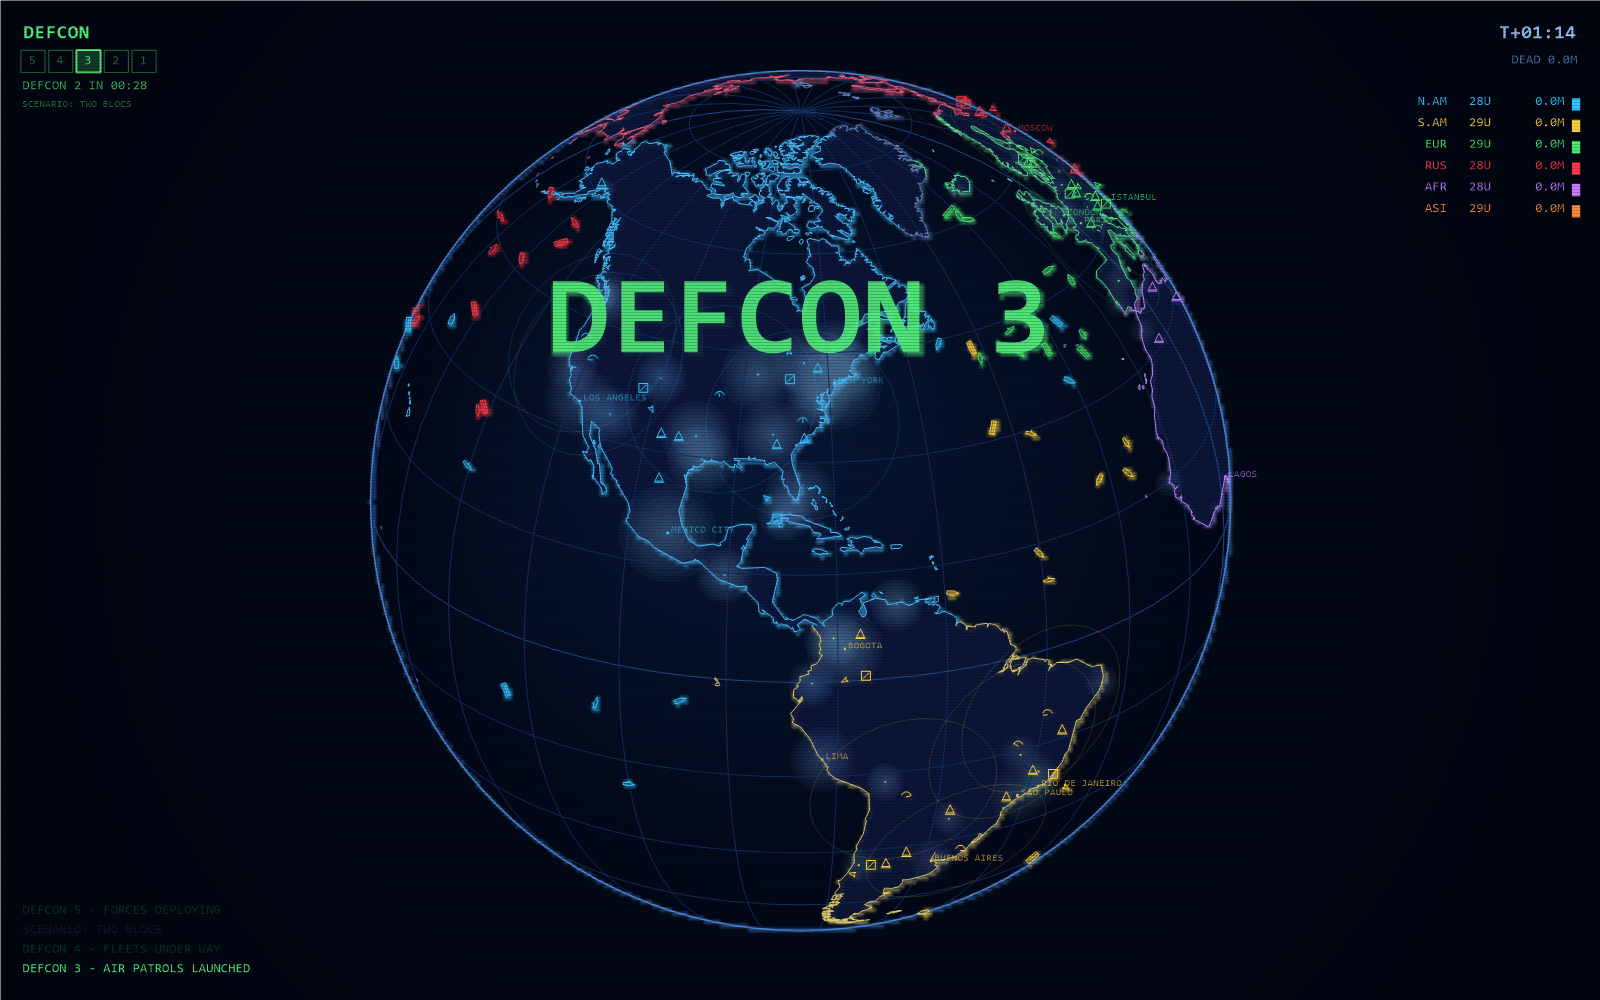
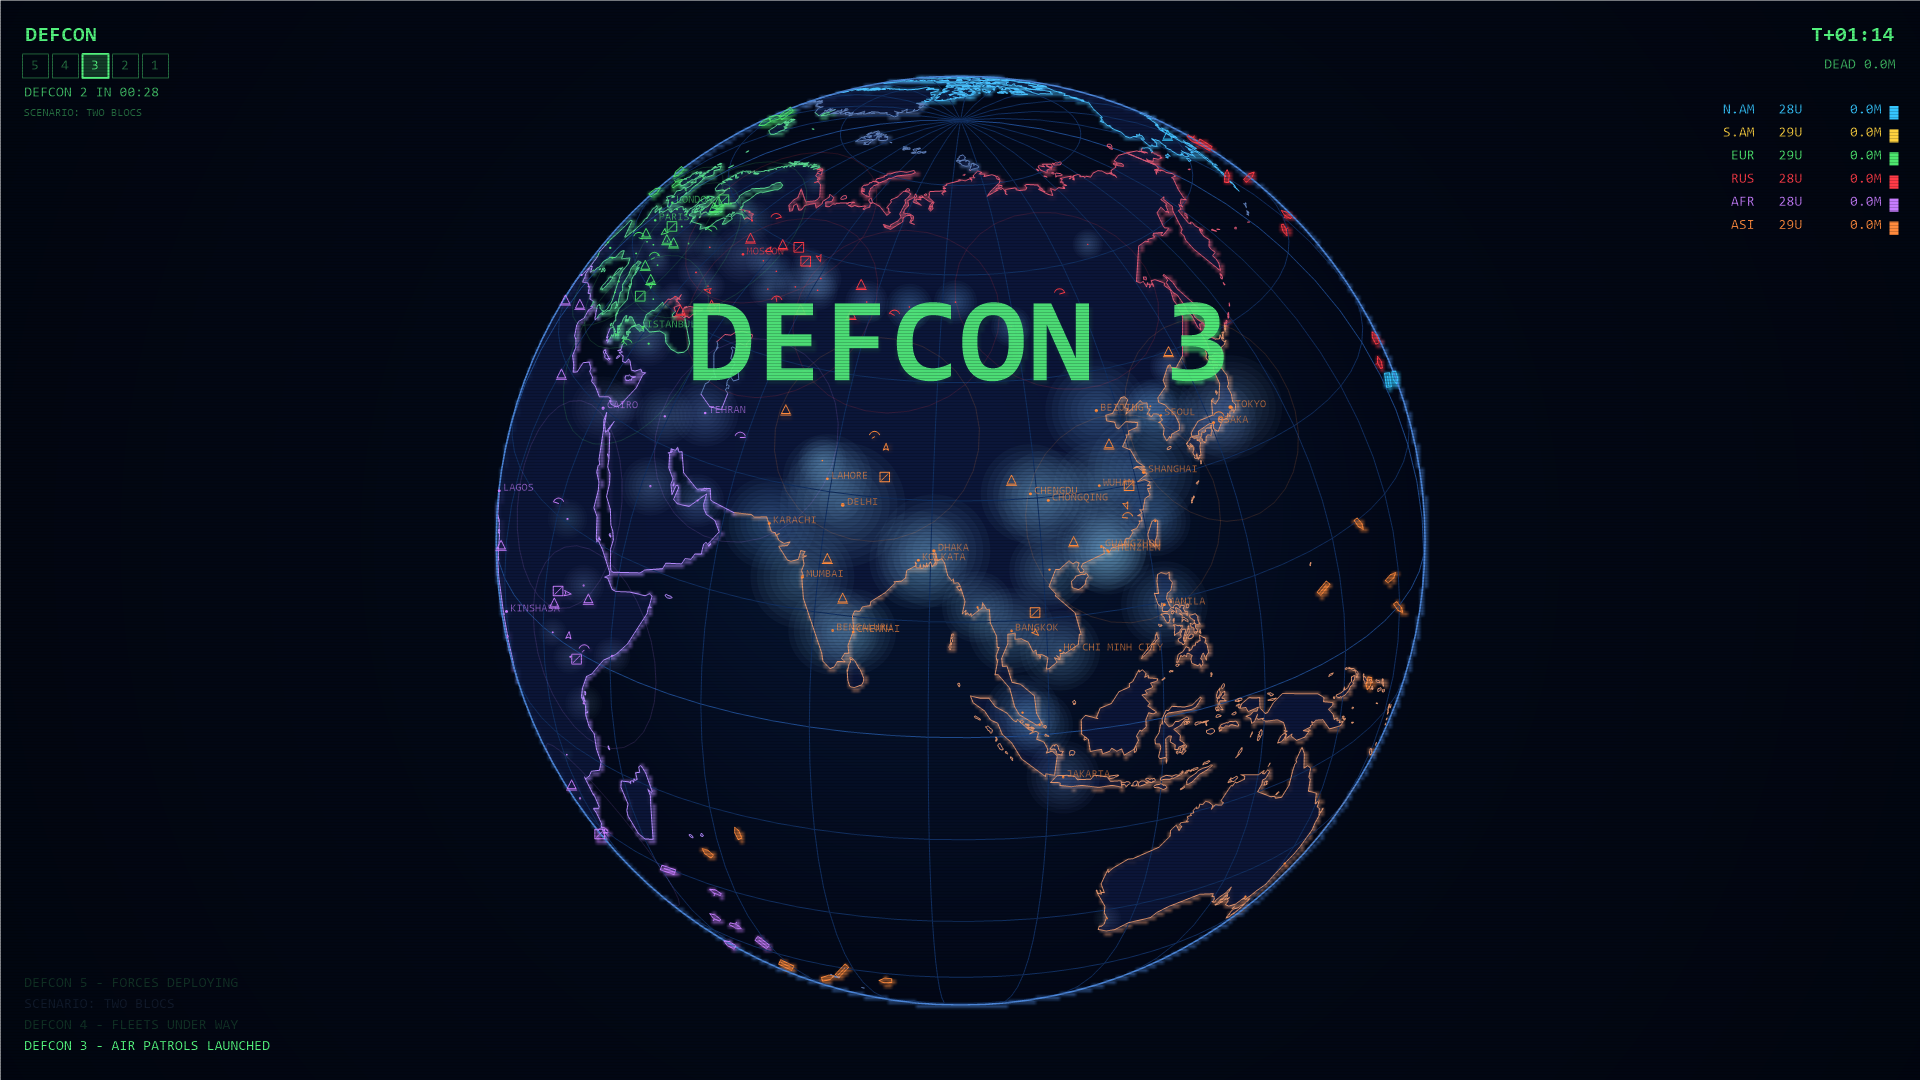
Show the screensaver in the README
Seven images: a hero shot at DEFCON 1, the DEFCON 3 build-up, the aftermath
tally, the orbital platforms in their tracks, the settings dialog, the green
readout, and a detail of the population haze over south and east Asia.

The existing screenshots were all captured mid-development and none of them
matched the current build: the top-right clock and casualty count were still
blue, the centre banner was a third of its size, and the aftermath shot read
"EVERYBODY DIES". Regenerated from the current binary with /g, which renders
deterministic stills from a fixed seed, so they can be reproduced exactly.

diff --git a/README.md b/README.md
@@ -5,6 +5,8 @@ Mac-only DEFCON Globe screensaver that Ambrosia shipped alongside it. A vector g
 slowly against near-black space while six blocs fight a full nuclear exchange on it: fleets
 put to sea, radar sweeps, bombers scramble, and at DEFCON 1 the missiles fly.
 
+![The globe at DEFCON 1, warheads in flight over the Americas](screenshots/defcon1-exchange.png)
+
 Nothing here is Introversion's code or art — it is an original build that borrows the look.
 
 ## What it does
@@ -20,6 +22,14 @@ A complete war runs in about five and a half minutes, then resets with a fresh s
 | DEFCON 1 | 165 s | Nuclear release: ICBMs, SLBMs, interceptors, cities burn. Hidden orbital platforms unmask and open fire |
 | Aftermath | 26 s | "END OF SIMULATION", final tally, then a new world |
 
+Fleets at sea and air patrols up at DEFCON 3, before anything has been fired:
+
+![DEFCON 3, fleets deployed and air patrols flying](screenshots/defcon3-buildup.png)
+
+And five and a half minutes later, with the tally up and the map gone quiet:
+
+![The aftermath screen, with the final casualty tally](screenshots/aftermath.png)
+
 ## Orbital platforms
 
 Not in the original game. At DEFCON 1 each bloc unmasks one or two weapons platforms, already
@@ -27,6 +37,11 @@ in orbit and until then hidden. Each rides its own great circle, and the stretch
 of it is drawn so you can see where it is heading. A platform picks a city in the cone beneath
 it and fires: a laser does the damage of a warhead, instantly, with the beam visible for a
 little over half a second.
+
+![Orbital platforms in their tracks, with an orbital strike in the log](screenshots/orbital-platforms.png)
+
+The coloured arcs are the stretch of orbit each platform is about to fly through, and the log
+records a strike on Chongqing.
 
 Silos shoot back. Roughly one round in six goes to a direct-ascent anti-satellite shot at a
 platform high enough above the silo's horizon to be engaged. Those climb out of the atmosphere
@@ -107,6 +122,17 @@ Stored under `HKCU\Software\DefconSaver`.
   a bank of consoles rather than a mirror
 - **Draw with the GPU** — on by default; turn it off to force software rendering
 - **Population haze** — a mist over inhabited ground that thins as the people under it die
+
+![The settings dialog](screenshots/settings.png)
+
+The readout, green throughout, with the scanlines on:
+
+![The DEFCON readout in the top-left corner](screenshots/hud-readout.png)
+
+The haze over south and east Asia at DEFCON 3, while the population is still intact. It burns
+off city by city as the warheads land:
+
+![Population haze over south and east Asia](screenshots/population-haze.png)
 
 ## Performance
 
